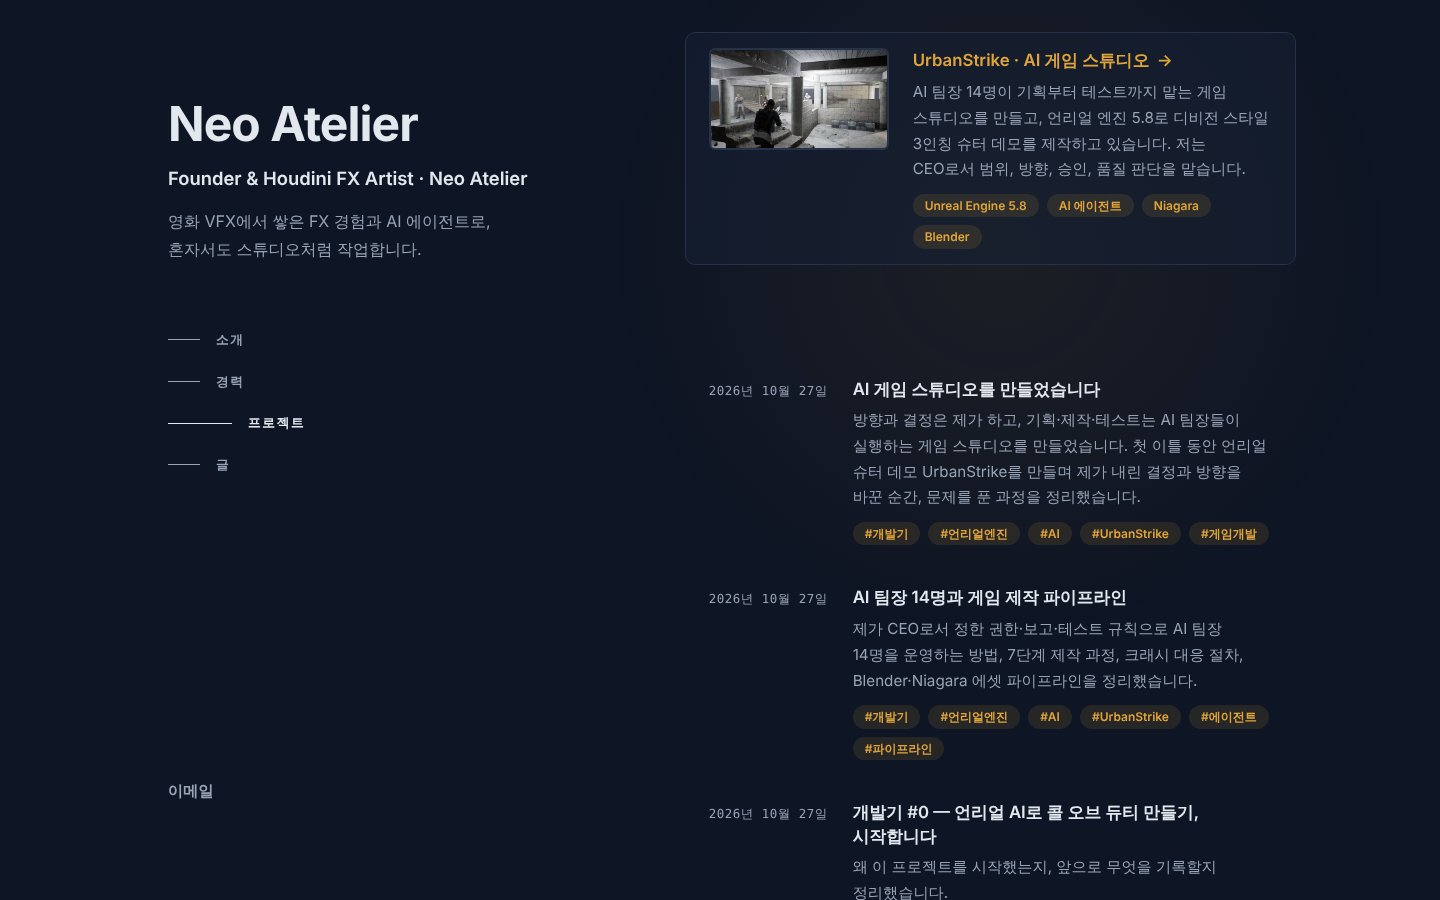
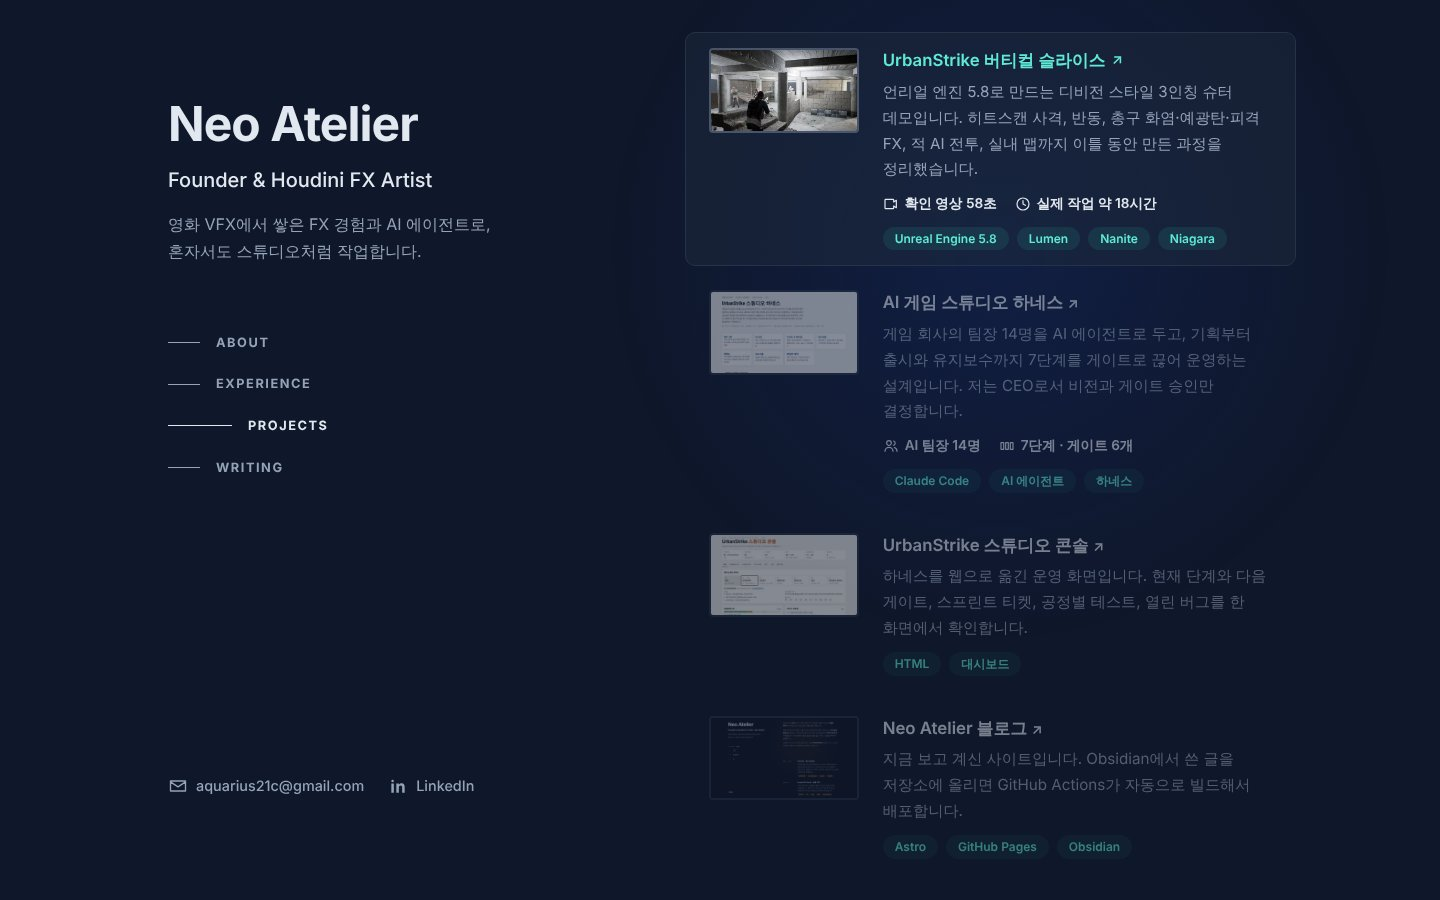
Match homepage to reference layout: project list, teal accent, contacts
Projects section lists four projects with thumbnails, stats and tech
pills; nav uses ABOUT / EXPERIENCE / PROJECTS / WRITING; accent moves to
teal on a slate-navy background; contact links are email and LinkedIn.

Claude-Session: https://claude.ai/code/session_01ADUa9izcwCMGkJeSoDPczs

diff --git a/src/styles/home.css b/src/styles/home.css
@@ -9,7 +9,7 @@ body.bare { line-height: 1.7; }
   z-index: 0;
   opacity: 0;
   transition: opacity 0.4s;
-  background: radial-gradient(560px circle at var(--x, 50%) var(--y, 30%), rgba(224, 164, 58, 0.07), transparent 70%);
+  background: radial-gradient(560px circle at var(--x, 50%) var(--y, 30%), rgba(29, 78, 216, 0.15), transparent 70%);
 }
 .spotlight.on { opacity: 1; }
 
@@ -24,7 +24,7 @@ body.bare { line-height: 1.7; }
 .intro h1 { margin: 0; font-size: clamp(2.2rem, 6vw, 3rem); line-height: 1.15; letter-spacing: -0.02em; }
 .intro h1 a { color: var(--text); }
 .intro h1 a:hover { text-decoration: none; }
-.role { margin: 12px 0 0; font-size: 1.15rem; font-weight: 600; color: var(--text); }
+.role { margin: 12px 0 0; font-size: clamp(1.1rem, 2.4vw, 1.25rem); font-weight: 500; color: var(--text); }
 .tagline { margin: 14px 0 0; max-width: 22rem; color: var(--muted); }
 
 .section-nav { display: none; }
@@ -45,8 +45,10 @@ body.bare { line-height: 1.7; }
 .section-nav a:hover .line,
 .section-nav a[aria-current] .line { width: 64px; background: var(--text); }
 
-.contacts { list-style: none; display: flex; gap: 20px; margin: 28px 0 0; padding: 0; }
-.contacts a { color: var(--muted); font-size: 0.95rem; font-weight: 600; }
+.contacts { list-style: none; display: flex; flex-wrap: wrap; gap: 12px 24px; margin: 28px 0 0; padding: 0; }
+.contacts a { display: inline-flex; align-items: center; gap: 8px; color: var(--muted); font-size: 0.9rem; font-weight: 500; }
+.contacts svg { width: 20px; height: 20px; fill: none; stroke: currentColor; stroke-width: 1.6; stroke-linejoin: round; }
+.contacts li:last-child svg { fill: currentColor; stroke: none; }
 .contacts a:hover { color: var(--accent); text-decoration: none; }
 
 .content { margin-top: 64px; }
@@ -64,7 +66,7 @@ body.bare { line-height: 1.7; }
   letter-spacing: 0.12em;
   text-transform: uppercase;
   color: var(--text);
-  background: rgba(14, 21, 36, 0.8);
+  background: rgba(15, 23, 42, 0.8);
   backdrop-filter: blur(8px);
 }
 
@@ -74,16 +76,21 @@ body.bare { line-height: 1.7; }
 .card p { margin: 6px 0 0; color: var(--muted); font-size: 0.95rem; }
 .card-meta { margin: 0 !important; font-family: var(--mono); font-size: 0.78rem !important; letter-spacing: 0.04em; padding-top: 3px; }
 .card-meta time { font-size: inherit; }
-.card img { width: 100%; max-width: 220px; height: auto; aspect-ratio: 16 / 9; object-fit: cover; border-radius: 6px; border: 2px solid var(--border); }
+.card img { width: 100%; max-width: 200px; height: auto; aspect-ratio: 16 / 9; object-fit: cover; border-radius: 4px; border: 2px solid var(--border); transition: border-color 0.2s; }
+.card:hover img { border-color: rgba(148, 163, 184, 0.4); }
 
 /* 카드 전체를 누를 수 있게 제목 링크를 카드 크기로 넓힙니다. */
 .card-link { color: var(--text); }
 .card-link::after { content: ''; position: absolute; inset: -16px; border-radius: 10px; z-index: 0; }
 .card-link:hover { text-decoration: none; }
-.card-link span { display: inline-block; transition: transform 0.2s; }
+.card-link span { display: inline-block; font-size: 0.85em; transition: transform 0.2s; }
 .card:hover .card-link { color: var(--accent); }
-.card:hover .card-link span { transform: translateX(3px); }
+.card:hover .card-link span { transform: translate(2px, -2px); }
 .card .chips a, .card .badge { position: relative; z-index: 1; }
+
+.stats { list-style: none; display: flex; flex-wrap: wrap; gap: 6px 18px; margin: 10px 0 0; padding: 0; }
+.stats li { display: inline-flex; align-items: center; gap: 6px; font-size: 0.85rem; font-weight: 600; color: var(--text); }
+.stats svg { width: 16px; height: 16px; fill: none; stroke: currentColor; stroke-width: 1.8; stroke-linecap: round; stroke-linejoin: round; }
 
 .chips { list-style: none; display: flex; flex-wrap: wrap; gap: 8px; margin: 12px 0 0; padding: 0; }
 .chips li { font-size: 0.75rem; font-weight: 600; line-height: 1.6; padding: 2px 12px; border-radius: 99px; color: var(--accent); background: var(--accent-soft); }
@@ -98,7 +105,7 @@ body.bare { line-height: 1.7; }
 @media (min-width: 768px) {
   .home { padding: 80px 48px; }
   .card { grid-template-columns: 120px 1fr; gap: 24px; }
-  .card:has(img) { grid-template-columns: 180px 1fr; }
+  .card:has(img) { grid-template-columns: 150px 1fr; }
   .card-link::after { inset: -16px -24px; }
   .card::before {
     content: '';
@@ -109,7 +116,7 @@ body.bare { line-height: 1.7; }
     transition: background 0.2s, border-color 0.2s;
     z-index: -1;
   }
-  .card:hover::before { background: rgba(21, 32, 52, 0.6); border-color: var(--border); }
+  .card:hover::before { background: rgba(30, 41, 59, 0.5); border-color: var(--border); }
   /* 카드 하나에 올리면 나머지는 흐리게 */
   .cards:hover > .card:not(:hover) { opacity: 0.5; }
   .card { transition: opacity 0.2s; }

diff --git a/src/data/profile.ts b/src/data/profile.ts
@@ -3,14 +3,14 @@
 export const profile = {
   name: 'Neo Atelier',
   owner: 'HG',
-  role: 'Founder & Houdini FX Artist · Neo Atelier',
+  role: 'Founder & Houdini FX Artist',
   tagline: '영화 VFX에서 쌓은 FX 경험과 AI 에이전트로, 혼자서도 스튜디오처럼 작업합니다.',
 };
 
-// 연락처는 이메일과 링크드인만 둡니다. linkedin이 비어 있으면 화면에 표시하지 않습니다.
+// 연락처는 이메일과 링크드인만 둡니다. 값이 비어 있으면 화면에 표시하지 않습니다.
 export const contacts = {
   email: 'aquarius21c@gmail.com',
-  linkedin: '',
+  linkedin: 'https://www.linkedin.com/in/hyungijeon/',
 };
 
 export const experience = [
@@ -30,15 +30,53 @@ export const experience = [
   },
 ];
 
+// stats의 icon: 'video' | 'clock' | 'team' | 'stage'
+// link: 사이트 안 주소(posts/..., docs/...) 또는 https:// 로 시작하는 바깥 주소
 export const projects = [
   {
-    title: 'UrbanStrike · AI 게임 스튜디오',
+    title: 'UrbanStrike 버티컬 슬라이스',
     summary:
-      'AI 팀장 14명이 기획부터 테스트까지 맡는 게임 스튜디오를 만들고, 언리얼 엔진 5.8로 디비전 스타일 3인칭 슈터 데모를 제작하고 있습니다. 저는 CEO로서 범위, 방향, 승인, 품질 판단을 맡습니다.',
+      '언리얼 엔진 5.8로 만드는 디비전 스타일 3인칭 슈터 데모입니다. 히트스캔 사격, 반동, 총구 화염·예광탄·피격 FX, 적 AI 전투, 실내 맵까지 이틀 동안 만든 과정을 정리했습니다.',
     image: 'projects/urbanstrike.jpg',
     imageAlt: 'UrbanStrike 3인칭 시점으로 미완성 건물 안에서 적과 교전하는 장면',
-    tags: ['Unreal Engine 5.8', 'AI 에이전트', 'Niagara', 'Blender'],
-    // 이 태그가 붙은 글이 있으면 제목이 그 태그 페이지로 연결됩니다.
-    tag: 'UrbanStrike',
+    link: 'posts/2026-10-27-ai-game-studio/',
+    stats: [
+      { icon: 'video', label: '확인 영상 58초' },
+      { icon: 'clock', label: '실제 작업 약 18시간' },
+    ],
+    tags: ['Unreal Engine 5.8', 'Lumen', 'Nanite', 'Niagara'],
+  },
+  {
+    title: 'AI 게임 스튜디오 하네스',
+    summary:
+      '게임 회사의 팀장 14명을 AI 에이전트로 두고, 기획부터 출시와 유지보수까지 7단계를 게이트로 끊어 운영하는 설계입니다. 저는 CEO로서 비전과 게이트 승인만 결정합니다.',
+    image: 'projects/studio-harness.jpg',
+    imageAlt: 'UrbanStrike 스튜디오 하네스 설계 문서 첫 화면',
+    link: 'docs/urbanstrike-studio-harness.html',
+    stats: [
+      { icon: 'team', label: 'AI 팀장 14명' },
+      { icon: 'stage', label: '7단계 · 게이트 6개' },
+    ],
+    tags: ['Claude Code', 'AI 에이전트', '하네스'],
+  },
+  {
+    title: 'UrbanStrike 스튜디오 콘솔',
+    summary:
+      '하네스를 웹으로 옮긴 운영 화면입니다. 현재 단계와 다음 게이트, 스프린트 티켓, 공정별 테스트, 열린 버그를 한 화면에서 확인합니다.',
+    image: 'projects/studio-console.jpg',
+    imageAlt: 'UrbanStrike 스튜디오 콘솔의 단계·게이트 화면',
+    link: 'docs/urbanstrike-studio-console.html',
+    stats: [],
+    tags: ['HTML', '대시보드'],
+  },
+  {
+    title: 'Neo Atelier 블로그',
+    summary:
+      '지금 보고 계신 사이트입니다. Obsidian에서 쓴 글을 저장소에 올리면 GitHub Actions가 자동으로 빌드해서 배포합니다.',
+    image: 'projects/neo-atelier-blog.jpg',
+    imageAlt: 'Neo Atelier 블로그 홈 화면',
+    link: 'https://github.com/aquarius21c/NeoDevBlog',
+    stats: [],
+    tags: ['Astro', 'GitHub Pages', 'Obsidian'],
   },
 ];

diff --git a/src/styles/global.css b/src/styles/global.css
@@ -1,11 +1,11 @@
 :root {
-  --bg: #0e1524;
-  --surface: #152034;
-  --border: #25324a;
-  --text: #e3e8ef;
-  --muted: #97a3b6;
-  --accent: #e0a43a;
-  --accent-soft: rgba(224, 164, 58, 0.12);
+  --bg: #0f172a;
+  --surface: #172036;
+  --border: #263247;
+  --text: #e2e8f0;
+  --muted: #94a3b8;
+  --accent: #5eead4;
+  --accent-soft: rgba(45, 212, 191, 0.1);
   --font: 'Pretendard', 'Apple SD Gothic Neo', 'Malgun Gothic', system-ui, sans-serif;
   --mono: ui-monospace, 'Cascadia Code', Consolas, monospace;
   color-scheme: dark;
